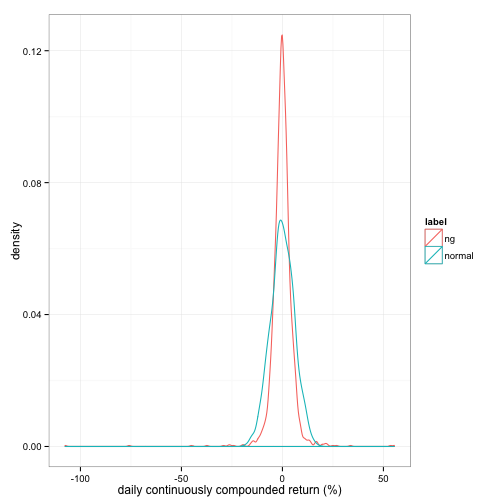
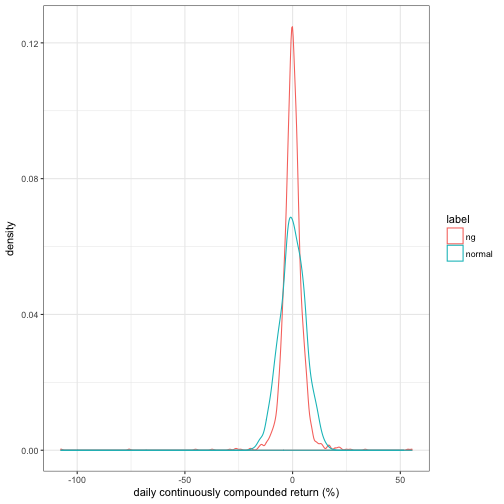
no message

diff --git a/_posts/r/2014-10-14-sknewness-and-kurtosis-examples.md b/_posts/r/2014-10-14-sknewness-and-kurtosis-examples.md
@@ -79,7 +79,8 @@ Next, I calculated the 4 shape characteristics of these daily returns for each s
 
 
 {% highlight text %}
-## Error in library(PerformanceAnalytics): there is no package called 'PerformanceAnalytics'
+##            mean              sd        skewness excess.kurtosis 
+##     -0.09003839      5.81212763     -3.73626258     85.80061898
 {% endhighlight %}
 
 
@@ -91,7 +92,8 @@ Next, I calculated the 4 shape characteristics of these daily returns for each s
 
 
 {% highlight text %}
-## Error in library(PerformanceAnalytics): there is no package called 'PerformanceAnalytics'
+##            mean              sd        skewness excess.kurtosis 
+##      0.01516686      1.41858330     -0.31423801      9.22125158
 {% endhighlight %}
 
 Note the S&P500 had a mild negative skewness while NovaGold had a big negative skewness. Remember the normal distribution has a skewness of 0. In addition, both stocks had excess kurtosis comparing to the normal distribution. In particular, NovaGold had an excess kurtosis of 85.8, which made it much more likely to experience wild price swings than both the S&P500 and a normal distribution would.
@@ -101,98 +103,25 @@ Next, I simulated normal data using the corresponding mean and sd of the daily r
 {% highlight r %}
 set.seed(1020)
 norm.ng = rnorm(nrow(ng), mean=ng.shape["mean"], sd=ng.shape["sd"])
-{% endhighlight %}
-
-
-
-{% highlight text %}
-## Error in rnorm(nrow(ng), mean = ng.shape["mean"], sd = ng.shape["sd"]): object 'ng.shape' not found
-{% endhighlight %}
-
-
-
-{% highlight r %}
 norm.sp500 = rnorm(nrow(sp500), mean=sp500.shape["mean"], sd=sp500.shape["sd"])
-{% endhighlight %}
 
-
-
-{% highlight text %}
-## Error in rnorm(nrow(sp500), mean = sp500.shape["mean"], sd = sp500.shape["sd"]): object 'sp500.shape' not found
-{% endhighlight %}
-
-
-
-{% highlight r %}
 library(tidyr)
 ret.ng = data.frame(ng = ng$rt, normal = norm.ng)
-{% endhighlight %}
-
-
-
-{% highlight text %}
-## Error in data.frame(ng = ng$rt, normal = norm.ng): object 'norm.ng' not found
-{% endhighlight %}
-
-
-
-{% highlight r %}
 ret.ng = ret.ng %>% gather(label, ret, ng:normal)
-{% endhighlight %}
 
-
-
-{% highlight text %}
-## Error in eval(expr, envir, enclos): object 'ret.ng' not found
-{% endhighlight %}
-
-
-
-{% highlight r %}
 ret.sp500 = data.frame(sp500 = sp500$rt, normal = norm.sp500)
-{% endhighlight %}
-
-
-
-{% highlight text %}
-## Error in data.frame(sp500 = sp500$rt, normal = norm.sp500): object 'norm.sp500' not found
-{% endhighlight %}
-
-
-
-{% highlight r %}
 ret.sp500 = ret.sp500 %>% gather(label, ret, sp500:normal)
-{% endhighlight %}
 
-
-
-{% highlight text %}
-## Error in eval(expr, envir, enclos): object 'ret.sp500' not found
-{% endhighlight %}
-
-
-
-{% highlight r %}
 # plot
 plt_density(ret.ng)
 {% endhighlight %}
 
-
-
-{% highlight text %}
-## Error in ggplot(df, aes(x = ret, color = label)): object 'ret.ng' not found
-{% endhighlight %}
-
-
+![center](/../figs/2014-10-14-sknewness-and-kurtosis-examples/unnamed-chunk-4-1.png)
 
 {% highlight r %}
 plt_density(ret.sp500)
 {% endhighlight %}
 
-
-
-{% highlight text %}
-## Error in ggplot(df, aes(x = ret, color = label)): object 'ret.sp500' not found
-{% endhighlight %}
+![center](/../figs/2014-10-14-sknewness-and-kurtosis-examples/unnamed-chunk-4-2.png)
 
 Note, both NovaGold and the S&P500 have longer and fatter tails than the normal curve. 
